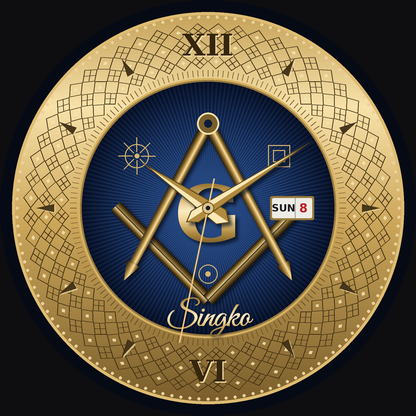
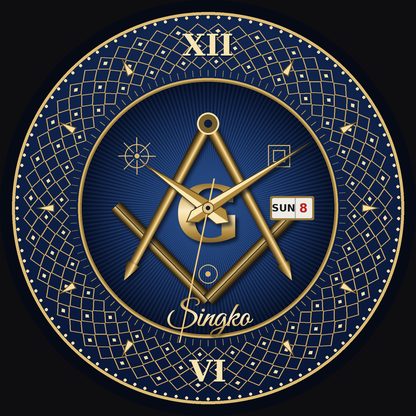
Make the Square dial's band blue with gold ornament
The band was built as a gold slab with dark engraving cut into it.
The reference watch's band is the same navy as the centre with a gold
lattice laid over it. That inversion is also why widening the band in
the last pass made the dial worse rather than better: it widened the
wrong material. With the material right, the wide band is correct.

- The annulus is now a navy field, a shade deeper than the centre,
  with the radial falloff carried by two sub-bands since a fillPolygon
  holds one colour.
- The lattice becomes gold lozenges over the blue with a small gold
  diamond in every other eye; the remaining cells stay blue, because
  filling them all turns the band back into a solid mat. In Monkey C
  each lozenge is a gold fill with the local blue inset back inside
  it, two fills per cell rather than four lines for an outline.
- Numerals and darts flip from engraved dark-into-gold to gold with a
  dark relief, which is what a marker on blue needs.

The design note in CLAUDE.md has now been wrong in both directions -
first "the band must not dominate", then "the gold band is wide and
that is correct" - so it is rewritten to say what actually matters,
which is the material rather than the width.

Costs about 1,110 primitive calls, slightly fewer than the gold-slab
version. Verified by colour and constant parity between render_v3.py
and DialSquare.mc, plus the usual resource cross-reference.

Still never compiled - no Garmin SDK available.
[…]

diff --git a/render_v3.py b/render_v3.py
@@ -109,23 +109,30 @@ def blue_centre():
 
 # ------------------------------------------------------------- guilloche ring
 
-# The band is divided into cells; every cell carries a lozenge outline and,
-# alternating, either a bright diamond or a dark saltire. That quilted diaper
-# is what the photo's band actually is - a single crosshatch of chords, which
-# is what was here before, reads as mesh rather than engraving.
+# The band is a *blue* field carrying gold ornament - not a gold slab with dark
+# engraving cut into it, which is what was here before and read as a brass
+# bezel. Getting this backwards was also why widening the band made the dial
+# worse: it was widening the wrong material.
 LATTICE_A = 56        # cells around
 LATTICE_R = 3         # rows across the band
 
 
-def gold_ring(img):
-    d = ImageDraw.Draw(img, "RGBA")
-
-    # annulus base, brighter at the top where the light sits
+def ring_field():
+    """Navy base for the band, a shade deeper than the centre."""
     y, x = np.mgrid[0:W, 0:W]
     dx, dy = (x - C) / SS, (y - C) / SS
-    t = np.clip((dy / RING_OUT + 1) / 2, 0, 1)
-    base = (GOLD[(np.clip(0.30 + t * 0.42, 0, 1) * 255).astype(int)]
-            ).astype(np.uint8)
+    r = np.hypot(dx, dy)
+    deep = np.array([8, 20, 50], dtype=float)
+    lift = np.array([22, 48, 96], dtype=float)
+    t = np.clip((1.0 - dy / RING_OUT) / 2.0, 0, 1) * 0.7 + 0.15
+    t = t * np.clip(1.18 - r / RING_OUT * 0.5, 0.5, 1.0)
+    img = deep[None, None, :] + (lift - deep)[None, None, :] * t[:, :, None]
+    return Image.fromarray(np.clip(img, 0, 255).astype(np.uint8), "RGB")
+
+
+def ornate_ring(img):
+    d = ImageDraw.Draw(img, "RGBA")
+
     ann = Image.new("L", img.size, 0)
     ImageDraw.Draw(ann).ellipse(
         [C - RING_OUT * SS, C - RING_OUT * SS, C + RING_OUT * SS, C + RING_OUT * SS],
@@ -133,12 +140,12 @@ def gold_ring(img):
     ImageDraw.Draw(ann).ellipse(
         [C - RING_IN * SS, C - RING_IN * SS, C + RING_IN * SS, C + RING_IN * SS],
         fill=0)
-    img.paste(Image.fromarray(base, "RGB"), (0, 0), ann)
+    img.paste(ring_field(), (0, 0), ann)
 
     field_in, field_out = RING_IN + 9, RING_OUT - 11
     step = (field_out - field_in) / LATTICE_R
-    dark = (62, 45, 18, 225)
-    lite = (244, 226, 176, 225)
+    gold = (206, 170, 96, 255)
+    bright = (244, 224, 168, 255)
 
     for row in range(LATTICE_R):
         r0 = field_in + row * step
@@ -149,37 +156,29 @@ def gold_ring(img):
             a1 = (k + 1) / LATTICE_A * 2 * math.pi
             am = (a0 + a1) / 2
 
-            # lozenge: the cell's four edge midpoints
+            # gold lozenge over the blue, cell by cell
             d.polygon([pol(rm, a0), pol(r1, am), pol(rm, a1), pol(r0, am)],
-                      outline=dark, width=int(0.9 * SS))
+                      outline=gold, width=int(1.0 * SS))
 
+            # a small gold diamond in every other eye; the rest stay blue, or
+            # the band turns into a solid mat again
             if (k + row) % 2 == 0:
-                # bright diamond in the eye
-                f = 0.24
+                f = 0.26
                 d.polygon([pol(rm, a0 + (am - a0) * (1 - f)),
                            pol(rm + (r1 - rm) * f, am),
                            pol(rm, a1 - (a1 - am) * (1 - f)),
-                           pol(rm - (rm - r0) * f, am)], fill=lite)
-            else:
-                # dark saltire in the eye
-                d.line([pol(r0 + step * 0.28, a0 + (a1 - a0) * 0.28),
-                        pol(r1 - step * 0.28, a1 - (a1 - a0) * 0.28)],
-                       fill=dark, width=int(0.9 * SS))
-                d.line([pol(r0 + step * 0.28, a1 - (a1 - a0) * 0.28),
-                        pol(r1 - step * 0.28, a0 + (a1 - a0) * 0.28)],
-                       fill=dark, width=int(0.9 * SS))
+                           pol(rm - (rm - r0) * f, am)], fill=bright)
 
-    # fine radial teeth on the inner border, polished bead on the outer
-    for k in range(LATTICE_A * 3):
-        a = k / (LATTICE_A * 3) * 2 * math.pi
-        d.line([pol(RING_IN + 1.5, a), pol(field_in - 1.0, a)],
-               fill=(96, 72, 30, 200), width=int(0.8 * SS))
-    for k in range(132):
-        a = k / 132 * 2 * math.pi
+    # fine gold teeth on the inner edge, bead on the outer
+    for k in range(LATTICE_A * 2):
+        a = k / (LATTICE_A * 2) * 2 * math.pi
+        d.line([pol(RING_IN + 2.0, a), pol(field_in - 1.0, a)],
+               fill=(180, 146, 80, 220), width=int(0.9 * SS))
+    for k in range(112):
+        a = k / 112 * 2 * math.pi
         p = pol(RING_OUT - 5, a)
         br = 1.5 * SS
-        d.ellipse([p[0] - br, p[1] - br, p[0] + br, p[1] + br],
-                  fill=(234, 210, 156, 255))
+        d.ellipse([p[0] - br, p[1] - br, p[0] + br, p[1] + br], fill=bright)
 
     for rad, wid, col in ((RING_IN, 2.4, (214, 178, 100)),
                           (RING_OUT, 3.0, (222, 188, 114)),
@@ -187,8 +186,6 @@ def gold_ring(img):
         d.ellipse([C - rad * SS, C - rad * SS, C + rad * SS, C + rad * SS],
                   outline=col, width=int(wid * SS))
 
-
-# -------------------------------------------------------------------- markers
 
 NUM_R = RING_IN + 33        # numerals and darts share the band's mid-radius
 
@@ -203,20 +200,15 @@ def markers(img):
         n = (-(p2[1] - p1[1]), p2[0] - p1[0])
         ln = math.hypot(*n) or 1
         nx, ny = n[0] / ln * 4.0 * SS, n[1] / ln * 4.0 * SS
-        # engraved: light lower lip, dark shape over it
-        d.polygon([(p1[0] + nx + 1.2 * SS, p1[1] + ny + 1.2 * SS),
-                   (p2[0] + 1.2 * SS, p2[1] + 1.2 * SS),
-                   (p1[0] - nx + 1.2 * SS, p1[1] - ny + 1.2 * SS)],
-                  fill=(238, 214, 158, 200))
         d.polygon([(p1[0] + nx, p1[1] + ny), p2, (p1[0] - nx, p1[1] - ny)],
-                  fill=(58, 42, 16, 235))
+                  fill=(244, 224, 168, 255), outline=(120, 92, 40), width=int(SS))
 
     f = font(SERIF, 30)
     for label, a in (("XII", 0.0), ("VI", math.pi)):
         px, py = pol(NUM_R, a)
         d.text((px + 1.3 * SS, py + 1.3 * SS), label, font=f,
-               fill=(240, 218, 162, 210), anchor="mm")
-        d.text((px, py), label, font=f, fill=(54, 38, 14, 240), anchor="mm")
+               fill=(10, 22, 46, 220), anchor="mm")
+        d.text((px, py), label, font=f, fill=(246, 228, 176, 255), anchor="mm")
 
 
 # The photo scatters fine gold line-work in the blue field between the limbs:
@@ -359,7 +351,7 @@ def draw_static(name=NAME):
         fill=255)
     img.paste(blue_centre(), (0, 0), disc)
 
-    gold_ring(img)
+    ornate_ring(img)
     markers(img)
     symbols(img)
     emblem(img)

diff --git a/CLAUDE.md b/CLAUDE.md
@@ -30,9 +30,11 @@ The Square dial has had a photo-fidelity pass: the band was widened to the
 reference's proportions, the crosshatch replaced with its quilted lozenge
 lattice, the scattered line-work added (blazing star, small square, point within
 a circle), VI added at the bottom, the limbs thinned and the name retucked.
-What is still approximate rather than matched: the reference's faceted bezel is
-part of the physical watch and has no dial equivalent, and the G is DejaVu Serif
-Bold rather than the reference's own letterform.
+A second pass then fixed the band's material: it is a blue field with gold
+ornament, not a gold slab with dark engraving. What is still approximate rather
+than matched: the reference's faceted bezel is part of the physical watch and
+has no dial equivalent, and the G is DejaVu Serif Bold rather than the
+reference's own letterform.
 
 ## Design decisions worth not relitigating
 
@@ -55,9 +57,11 @@ These apply to both dials unless noted.
 - **The G is baked into the emblem PNG, not drawn on device.** It needs the same
   gradient metal as the limbs, and Monkey C primitives cannot produce that. It
   is static, so baking costs nothing.
-- **Numerals and hour darts are engraved *into* the gold**, not laid on top: a
-  light lower lip with the dark shape over it. Gold-on-gold was illegible — the
-  first pass had an invisible `XII`.
+- **Marker treatment follows what they sit on.** On the Square dial's blue band
+  the numerals and darts are gold with a dark relief behind them. They were
+  previously engraved dark-into-gold, which was right when the band was a gold
+  slab and would vanish now. The Gauge dial's gold-on-gold first pass had an
+  invisible `XII`, which is what started this rule.
 - **Text gets its own gold ramp (`GOLD_TEXT`).** The full `GOLD` ramp runs dark
   at both ends, which buries small glyphs; the first `G` and the first engraved
   name both disappeared into the dial.
@@ -65,16 +69,19 @@ These apply to both dials unless noted.
   fraternal-supply market.
 - **Hands are split down their length**, lit on one side and shadowed on the
   other. That split is what reads as polished metal.
-- **The gold band is wide, and that is correct.** An earlier note here said the
-  opposite — that the band must not dominate — which was wrong, and narrowing it
-  was the single biggest reason the dial did not read as the reference watch.
-  The reference gives roughly 40% of the radius to the band. Do not narrow it
-  again.
+- **The band is a blue field carrying gold ornament — not a gold slab.** This
+  note has been wrong twice, so read it carefully. The band was first built as
+  gold with dark engraving cut into it; widening that to the reference's
+  proportions made the dial *worse*, because it was widening the wrong material.
+  The reference's band is the same navy as the centre with a gold lattice laid
+  over it. With the material right, the wide band is correct — roughly 40% of
+  the radius. Do not turn it back into gold, and do not narrow it.
 - **The band carries a quilted lozenge lattice, not a crosshatch.** Two families
   of chords across the annulus was tried and reads as mesh or mosquito netting.
-  The reference is a diaper of discrete cells, each with a lozenge outline and
-  alternating bright diamond or dark saltire. In Monkey C each lozenge is a dark
-  fill with the local band colour inset inside it — two fills per cell, rather
+  The reference is a diaper of discrete cells, each a gold lozenge with a small
+  gold diamond in every other eye. **Leave the other cells empty** — filling
+  them all turns the band back into a solid mat. In Monkey C each lozenge is a
+  gold fill with the local blue inset back inside it: two fills per cell, rather
   than four lines for an outline.
 - **The blue field carries fine gold line-work**, not just the emblem: a blazing
   star, a small square, a point within a circle. Without them the field reads
@@ -92,8 +99,8 @@ work is only the hands and the day/date text.
 - `source/GaugeFaceApp.mc` — `AppBase`; holds the view so `onSettingsChanged`
   can forward to it.
 - `source/DialSquare.mc` — class `SquareDial`: `drawCentre` (rayed blue),
-  `drawRing` (band, quilted lattice, teeth, beads), `drawMarkers` (engraved
-  darts, `XII` and `VI`), `drawSymbols` (blazing star, small square, point
+  `drawRing` (blue band, gold quilted lattice, teeth, beads), `drawMarkers`
+  (gold darts, `XII` and `VI`), `drawSymbols` (blazing star, small square, point
   within a circle), `drawApertureFrame`, `drawEmblem`.
 - `source/DialGauge.mc` — class `GaugeDial`: `drawSunburst`, `drawRing` (the
   24-hour rule, night shading, division labels, sun markers), `drawSubdial`,
@@ -239,8 +246,8 @@ first-build friction:
   `~/.Garmin/ConnectIQ/Devices/`.
 - Full-screen buffered bitmap may fail to allocate. Fallbacks: halve `RAYS`, or
   buffer at half resolution and scale on blit.
-- The static layer is roughly **1,180** primitive calls for the Square dial
-  (the quilted band is 688 of them) and ~700 for the Gauge. Once only, in
+- The static layer is roughly **1,110** primitive calls for the Square dial
+  (the band accounts for 840 of them) and ~700 for the Gauge. Once only, in
   `onLayout`, but if the face is slow to appear, drop `LATTICE_R` to 2 before
   touching `RAYS` — the band matters more to the likeness than the rays, which
   the emblem largely covers.

diff --git a/README.md b/README.md
@@ -6,7 +6,7 @@ Two dials in one watch face, chosen in the settings. Built for the Epix Gen 2
 ![the two dials side by side](docs/preview.png)
 
 **Square and Compasses** (default) — a navy engine-turned centre inside a wide
-gold band carrying an engraved quilted lattice, XII and VI, fine gold line-work
+navy band carrying a gold quilted lattice, gold XII and VI, fine gold line-work
 in the blue field (blazing star, small square, point within a circle), the
 applied square and compasses around an ornate G, a day/date aperture at three,
 and your name engraved in script below the emblem.
@@ -120,7 +120,7 @@ Budget an hour for the usual friction:
   and reconcile `manifest.xml` against them.
 - **Memory and startup.** Two dials means two static layers of code and two
   emblem assets, though only one of each is live at a time. The Square dial's
-  static layer is about 1,180 primitive calls, drawn once in `onLayout`; if it's
+  static layer is about 1,110 primitive calls, drawn once in `onLayout`; if it's
   slow to appear, drop `LATTICE_R` to 2 in `DialSquare.mc`. If the full-screen
   buffer fails to allocate, render it at half resolution and scale on blit.
 - **Sunrise and sunset** (Gauge dial) need a position fix; until the watch has
